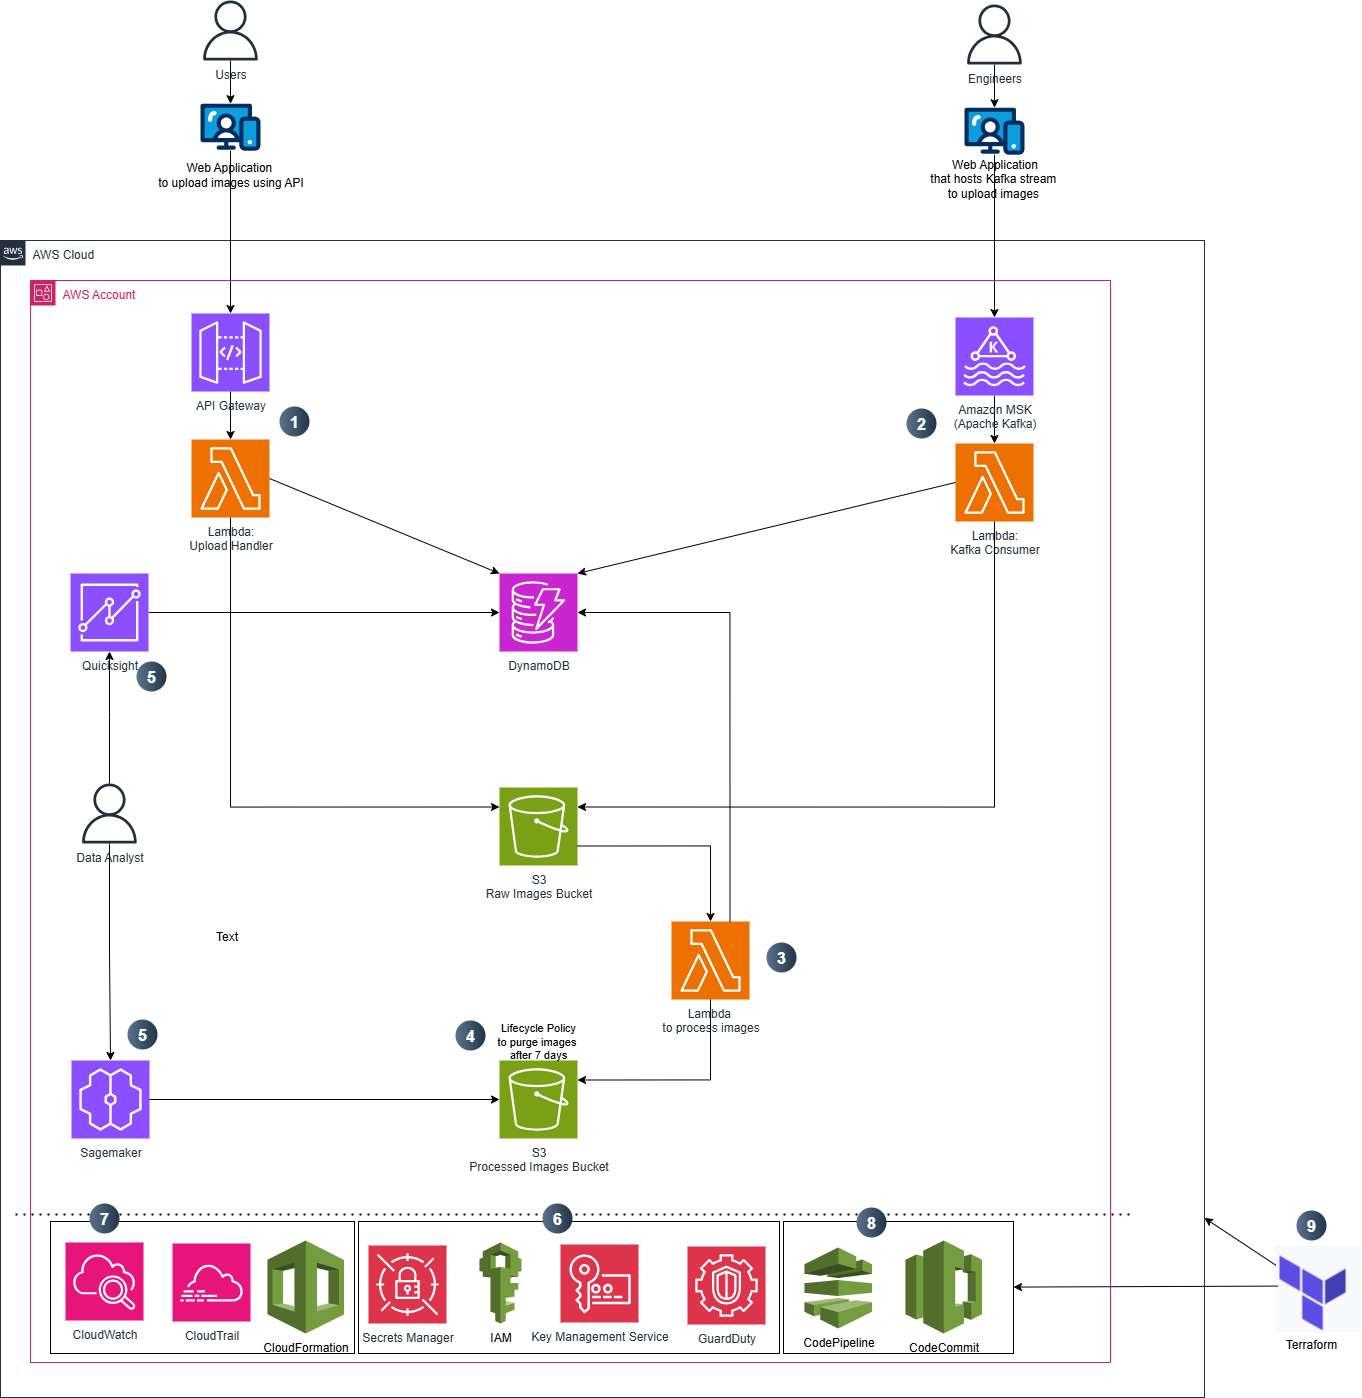
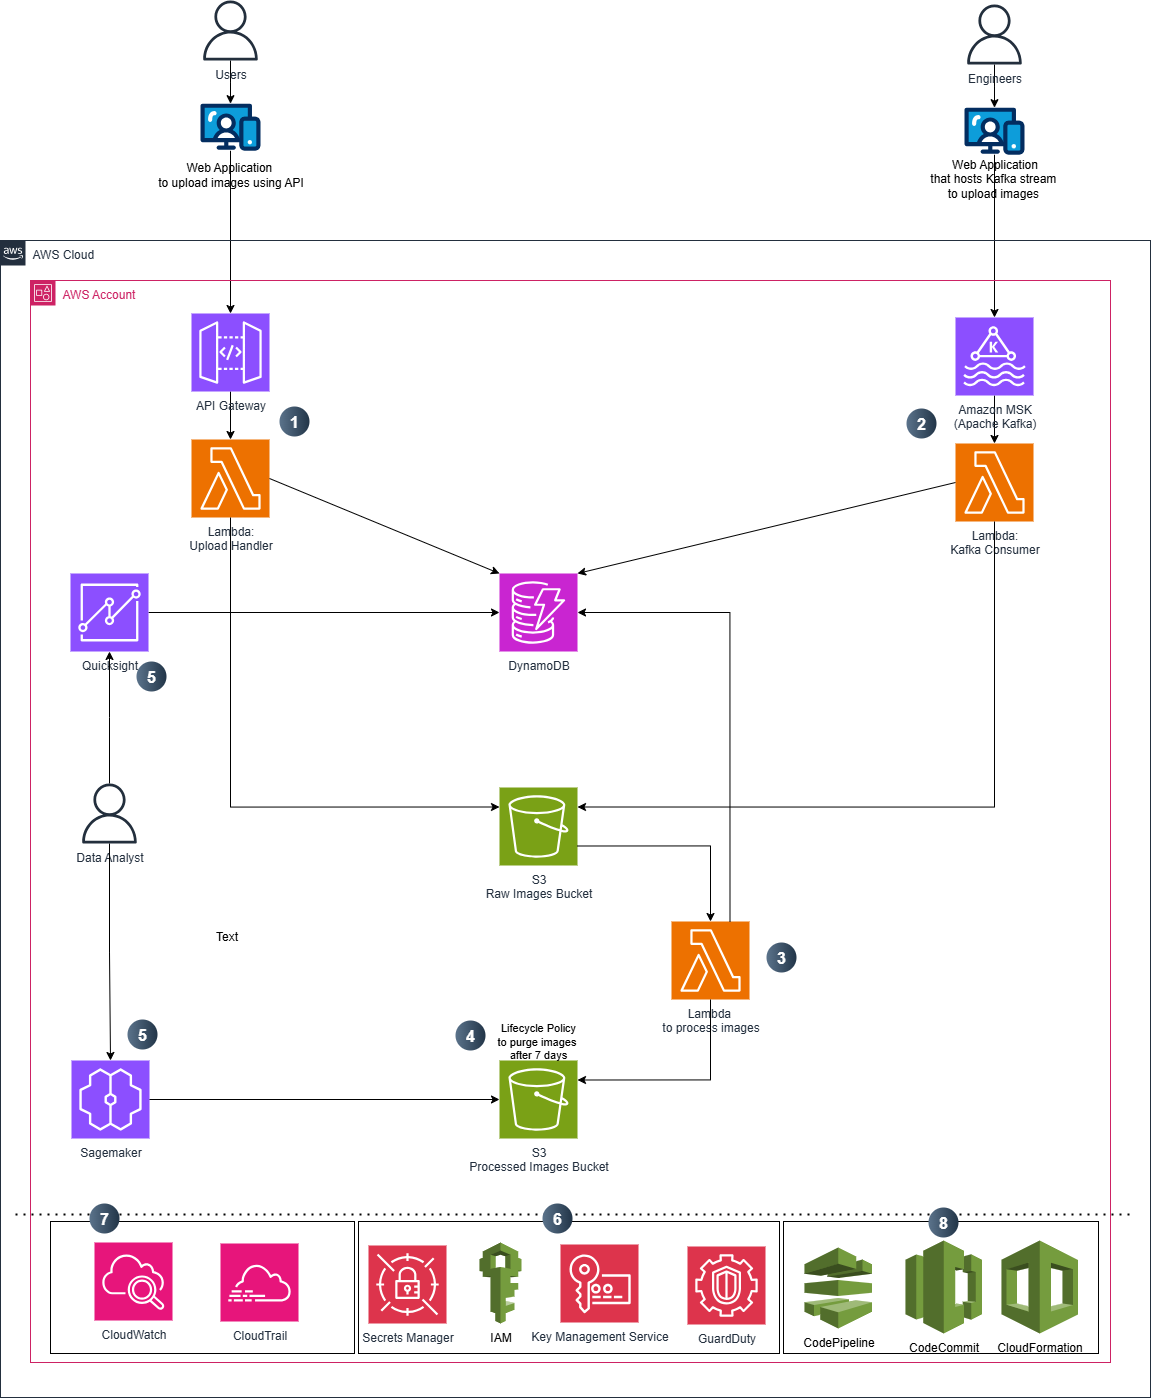
Add files via upload

diff --git a/section_3/readme_section_3_design_2.md b/section_3/readme_section_3_design_2.md
@@ -44,7 +44,6 @@ After the design is finalized, I will oversee the implementation phase, assign t
 7. Traffic is moderate to high; need auto-scaling and cost-efficient storage.
 8. The client application restricts image uploads up to 10MB, aligning with API Gateway's payload limit.
 9. AWS Lambda restricts limits up to 15 minutes per execution and up to 10GB memory / 6 vCPUs.
-10. Terraform automates infrastructure provisioning, with its scripts stored and version-controlled in AWS CodeCommit.
 
 [Back to Top](#table-of-contents)
 
@@ -73,7 +72,7 @@ After the design is finalized, I will oversee the implementation phase, assign t
 4. Data Retention & Purging
 	- S3 Lifecycle Policies
 		- Automatically delete both raw and processed images after 7 days.
-		- DynamoDB TTL (Time-To-Live) for metadata to remove entries after 7 days.
+	- DynamoDB TTL (Time-To-Live) for metadata to remove entries after 7 days.
 		
 5. Analytics & Business Intelligence
 	- AWS Sagemaker / QuickSight
@@ -90,14 +89,11 @@ After the design is finalized, I will oversee the implementation phase, assign t
 7. Scalability & Reliability
 	- Amazon CloudWatch → A monitoring and observability service that collects and tracks metrics, logs, and events to provide real-time insights into AWS resources, applications, and infrastructure.
 	- AWS CloudTrail → A service that records, monitors, and audits all API calls and account activity across AWS environments to ensure security and compliance.
-	- AWS CloudFormation → A service that allows you to define and provision AWS infrastructure as code using templates, enabling automated, repeatable, and consistent deployments
-
+	
 8. Maintenance
 	- Containerized processing code enables versioning and easy updates using CodeCommit.
 	- AWS CodePipeline (CI/CD) → A fully managed service that automates continuous integration and continuous delivery, streamlining application and infrastructure updates.
-
-9. Infrastructure provisioning	
-	- Terraform automates infrastructure provisioning, with its scripts stored and version-controlled in AWS CodeCommit.
+	- AWS CloudFormation → A service that allows you to define and provision AWS infrastructure as code using templates, enabling automated, repeatable, and consistent deployments
 
 [Back to Top](#table-of-contents)
 
@@ -110,7 +106,7 @@ A phased rollout with clear owners, QA gates, and automation:
 - Create security baseline (KMS key policies, VPC overall network).
 
 <ins>**Phase 1 — Core Infra & Storage (2 weeks)**</ins>
-- IaC: Terraform/CloudFormation for object storage buckets, lifecycle rules, KMS, VPC endpoints.
+- IaC: CloudFormation for object storage buckets, lifecycle rules, KMS, VPC endpoints.
 - Create staging buckets and lifecycle policy (7 days).
 - Set up CI/CD skeleton.
 
@@ -180,9 +176,9 @@ A phased rollout with clear owners, QA gates, and automation:
 
 1. Secure access
 	- IAM roles & policies enforces least-privilege access.
-	- AWS KMS encrypts S3, Redshift, and SageMaker data.
+	- AWS KMS encrypts S3 and SageMaker data.
 	- AWS CloudTrail enables auditing.
-	- RBAC for Redshift and restricted access for QuickSight & SageMaker.
+	- Restricted access for QuickSight & SageMaker.
 	- AWS best practice for securing data in transit is to encrypt all traffic. This ensures that data is unreadable even if it's intercepted as it moves across networks. 
 		- Encrypting External Traffic
 			When data moves between your users or on-premises environment and AWS, it travels over the public internet. This traffic must be encrypted.
@@ -199,12 +195,10 @@ A phased rollout with clear owners, QA gates, and automation:
 2. Scaling
 	- AWS Lambda, DynamoDB, and SageMaker auto-scale on demand.
 	- Amazon MSK handles high-throughput workloads.
-	- Redshift Serverless adjusts resources dynamically.
 	
 3. Manageability
 	- Secure credentials via AWS Secrets Manager.
 	- Encryption keys managed by AWS KMS.
-	- Terraform used for IaC to ensure consistent provisioning.
 
 4. Maintenance 
 	- AWS CodePipeline automates CI/CD.
@@ -212,13 +206,13 @@ A phased rollout with clear owners, QA gates, and automation:
 	- Version control
 
 5.  High Availability (HA)
-	- MSK Multi-AZ deployment and Redshift Serverless.
+	- MSK Multi-AZ deployment.
 	- S3 durability and fault tolerance.
 	
 6. Cost Efficiency
 	- Serverless services minimize idle costs.
 	- S3 lifecycle policies optimize storage costs.
-	- Redshift Serverless and QuickSight pay-per-use pricing	
+	- QuickSight pay-per-use pricing	
 	- S3 storage class optimization
 	
 7.  Fault Tolerance & Disaster Recovery (DR)
